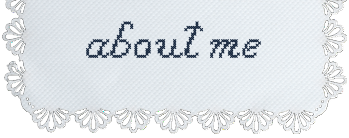
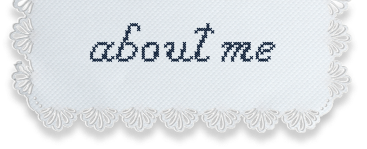
Fix About nav stamp drop shadow on Terraform and case pages.
Replace the cropped About export with the full Figma stamp and size the header slot so the baked shadow isn’t clipped.

Changed region(s): [[0.0, 0.0, 1.0, 0.9855], [0.2292, 0.1449, 0.6017, 0.4348], [0.6017, 0.2609, 0.7736, 0.4348]]

diff --git a/styles/brilliant.css b/styles/brilliant.css
@@ -128,28 +128,28 @@ html:has(.bc-page) {
   height: 75px;
 }
 
-/* Case studies (excl. Terraform) · lace nav · Figma Groups 3·4·22 · header 130 */
-:is(.brilliant-page, .nabu-page, .ose-page, .anda-page) .bc-header,
-:is(.brilliant-page, .nabu-page, .ose-page, .anda-page) .bc-header__inner,
-:is(.brilliant-page, .nabu-page, .ose-page, .anda-page) .bc-header__nav {
+/* Case studies · lace nav · Figma Groups 3·4·22 · header 130 */
+:is(.brilliant-page, .nabu-page, .ose-page, .anda-page, .terraform-page) .bc-header,
+:is(.brilliant-page, .nabu-page, .ose-page, .anda-page, .terraform-page) .bc-header__inner,
+:is(.brilliant-page, .nabu-page, .ose-page, .anda-page, .terraform-page) .bc-header__nav {
   overflow: visible;
 }
 
-:is(.brilliant-page, .nabu-page, .ose-page, .anda-page) .bc-header__inner {
+:is(.brilliant-page, .nabu-page, .ose-page, .anda-page, .terraform-page) .bc-header__inner {
   min-height: 130px;
 }
 
-:is(.brilliant-page, .nabu-page, .ose-page, .anda-page) .bc-stamp--work {
+:is(.brilliant-page, .nabu-page, .ose-page, .anda-page, .terraform-page) .bc-stamp--work {
   width: 73.93px; /* Group 3 */
   height: 173.44px;
 }
 
-:is(.brilliant-page, .nabu-page, .ose-page, .anda-page) .bc-stamp--about {
-  width: 176.64px; /* Group 4 · 176.636 × 67 */
-  height: 67px;
+:is(.brilliant-page, .nabu-page, .ose-page, .anda-page, .terraform-page) .bc-stamp--about {
+  width: 183.5px; /* Group 4 export incl. drop shadow · 367×149 @2x */
+  height: 74.5px;
 }
 
-:is(.brilliant-page, .nabu-page, .ose-page, .anda-page) .bc-stamp--resume {
+:is(.brilliant-page, .nabu-page, .ose-page, .anda-page, .terraform-page) .bc-stamp--resume {
   width: 184px; /* Group 22 · lace doily */
   height: 75px;
 }

diff --git a/projects/terraform.html b/projects/terraform.html
@@ -12,7 +12,7 @@
   <meta name="robots" content="noindex">
   <title>Terraform · Allison Qiu</title>
   <link rel="stylesheet" href="../styles/main.css?v=wipe4">
-  <link rel="stylesheet" href="../styles/brilliant.css">
+  <link rel="stylesheet" href="../styles/brilliant.css?v=aboutShadow1">
   <link rel="stylesheet" href="../styles/terraform.css?v=tf-caret4">
 </head>
 <body class="bc-page terraform-page">
@@ -25,7 +25,7 @@
           <img src="../assets/terraform/nav-work.png" alt="" width="164" height="363">
         </a>
         <a class="bc-stamp bc-stamp--about" href="/about" aria-label="About me">
-          <img src="../assets/terraform/nav-about.png" alt="" width="349" height="138">
+          <img src="../assets/terraform/nav-about.png?v=aboutShadow1" alt="" width="367" height="149">
         </a>
         <a class="bc-stamp bc-stamp--resume" href="https://drive.google.com/file/d/1y3O1REcmg2b0bxA-ayd65i2zbjlDtVtA/view?usp=sharing" target="_blank" rel="noopener noreferrer" aria-label="Resume">
           <img src="../assets/terraform/nav-resume.png" alt="" width="384" height="166">
